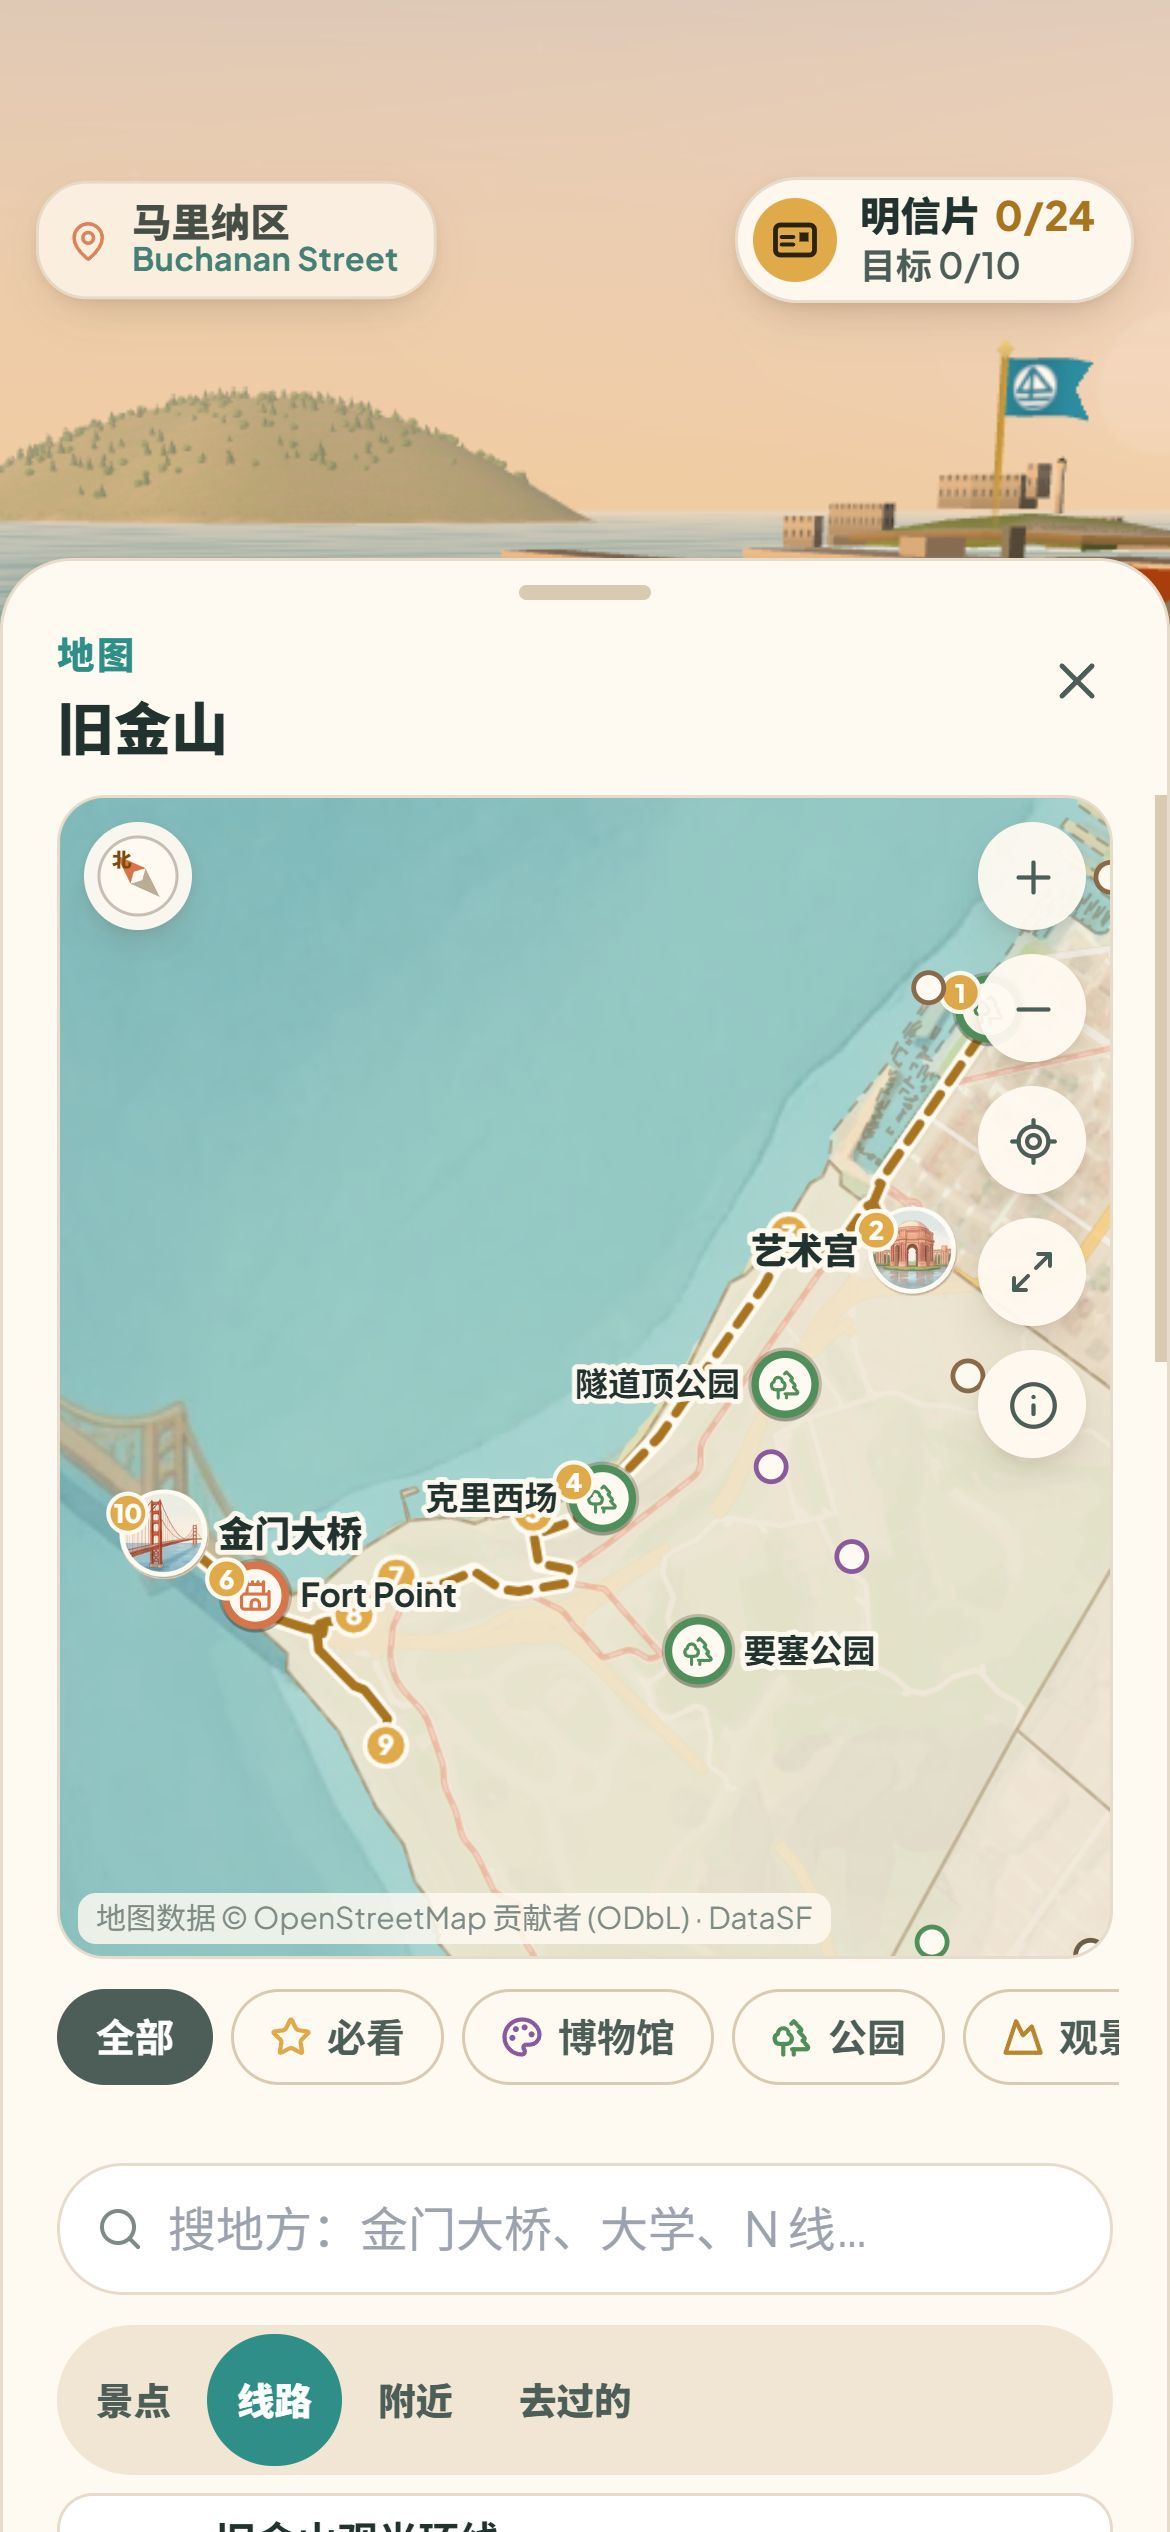
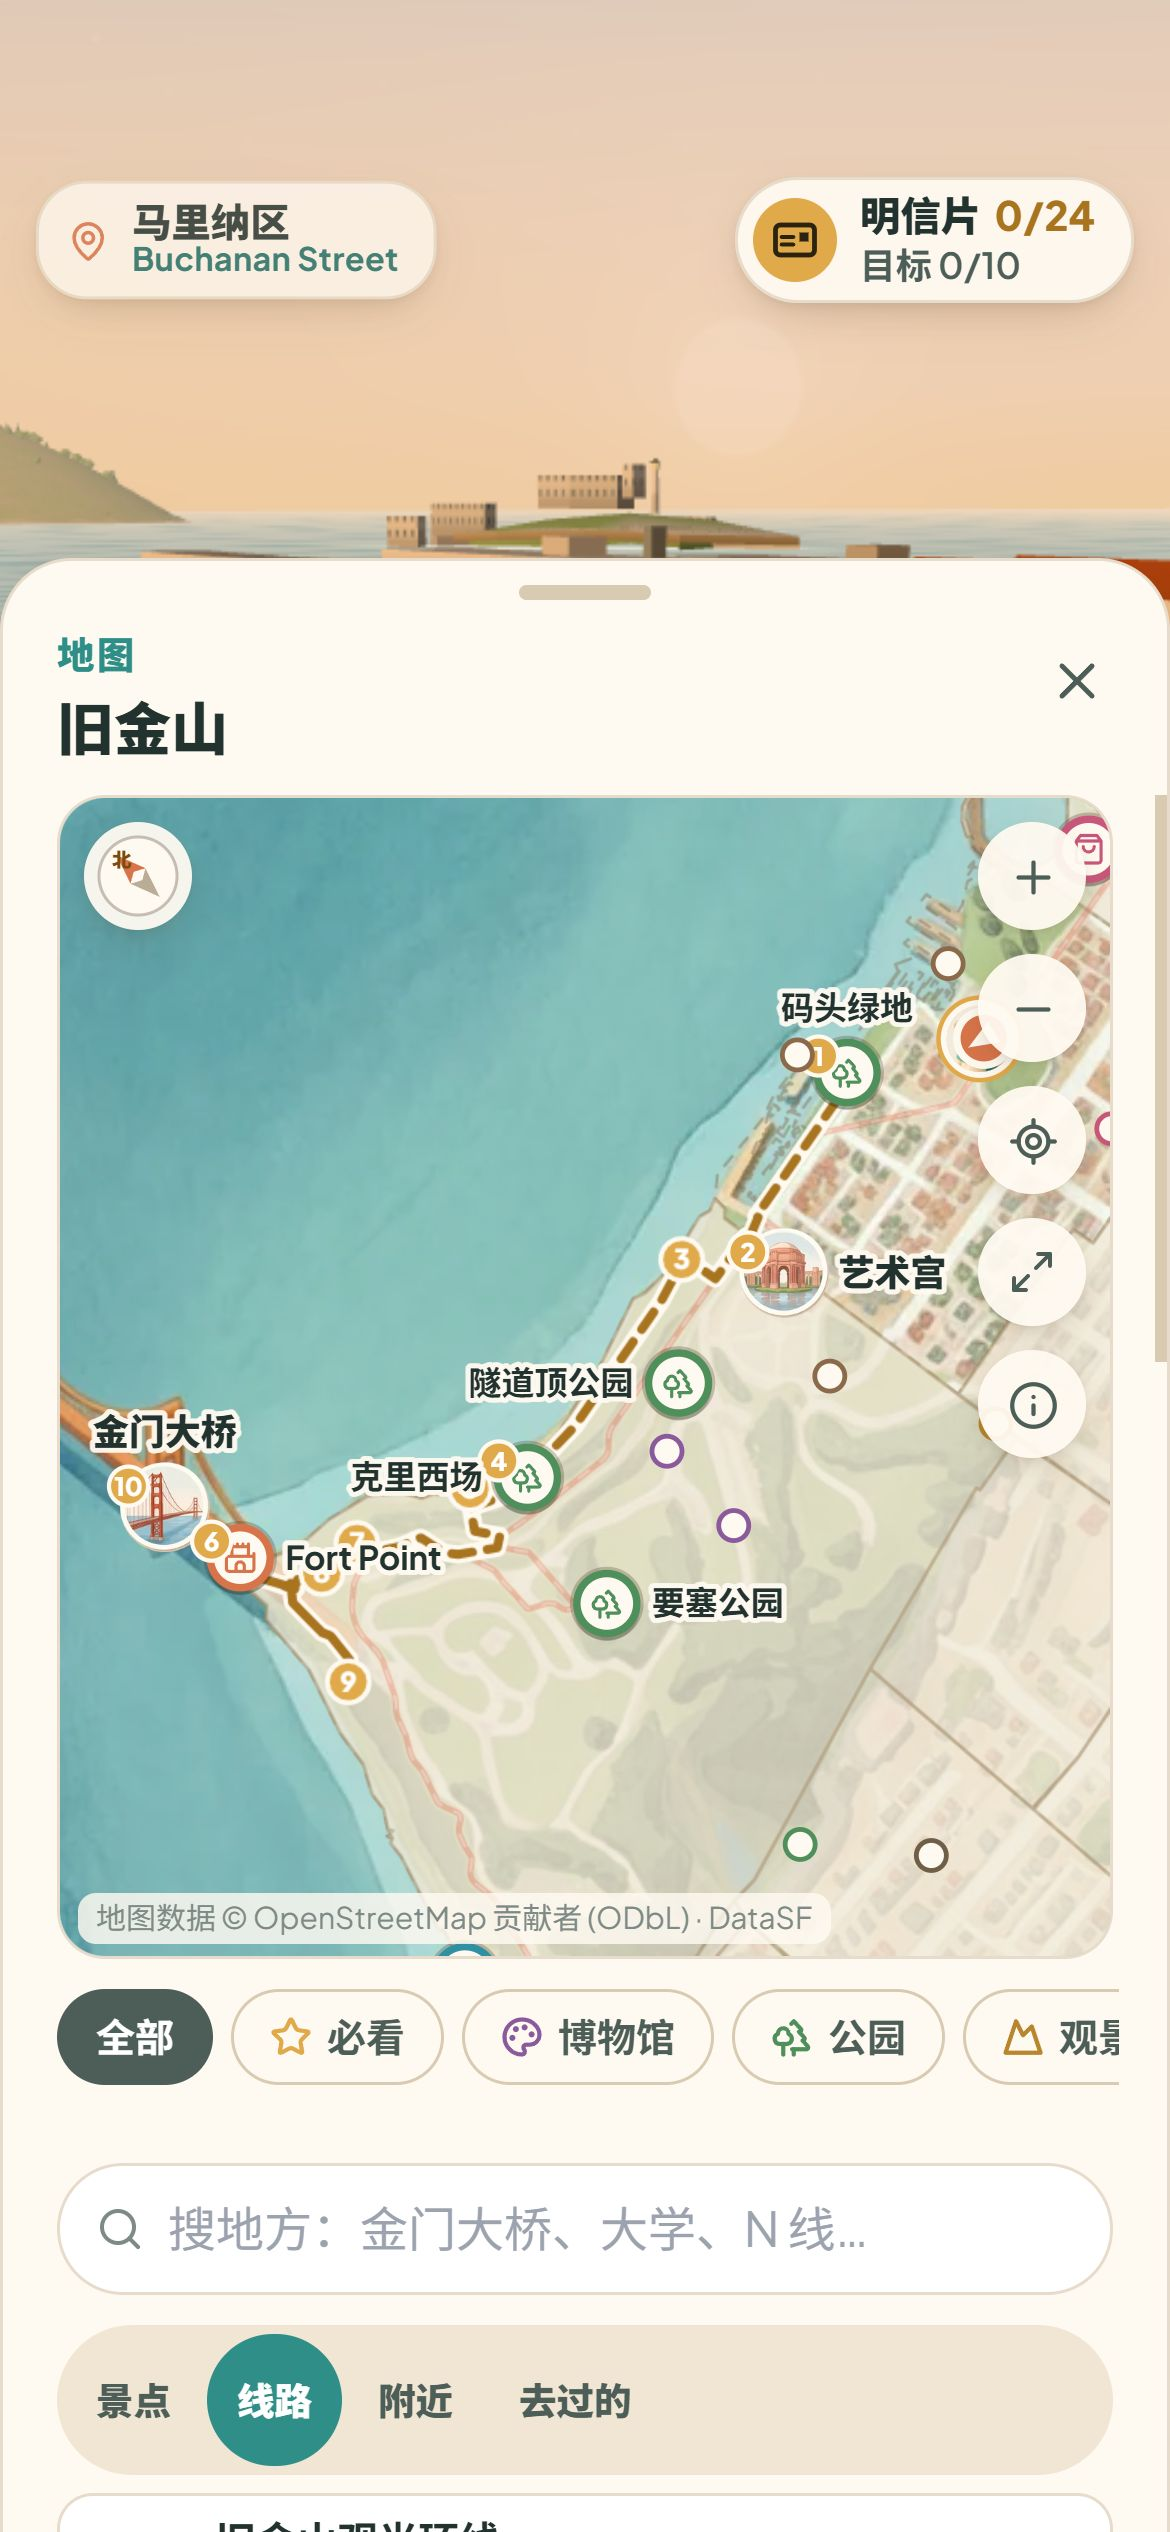
W4-P-I16: framing a line, a walking route, a cluster or a trip keeps the map's tool column clear (fitAbs right reserve: R2's first stop sat under the zoom buttons); the walk shot re-taken

diff --git a/src/opus-bay/ui/CityMap.tsx b/src/opus-bay/ui/CityMap.tsx
@@ -262,7 +262,7 @@ export function CityMapPanel() {
     const hit = hitTest(scene, p.x, p.y, HIT_PX);
     if (hit?.members?.length && scene.s < 1.2) {
       const pts = clusterPoints(scene, ATTRACTION_BY_ID, hit.id, hit.members);
-      setView(v => (v ? fitAbs(v, MAP_FRAME, pts, 56, 0.5, 2.4) : v));
+      setView(v => (v ? fitAbs(v, MAP_FRAME, pts, 56, 0.5, 2.4, toolRight) : v));
       return;
     }
     setSel(hit ? { kind: hit.kind, id: hit.id } : null);
@@ -299,7 +299,7 @@ export function CityMapPanel() {
     if (line && highlight !== id) {
       const pts: Vec2[] = [];
       for (let i = 0; i + 2 < line.path.length; i += 3 * 8) pts.push({ x: line.path[i], z: line.path[i + 2] });
-      setView(v => (v ? fitAbs(v, MAP_FRAME, pts, 28, 0.1, 1.2) : v));
+      setView(v => (v ? fitAbs(v, MAP_FRAME, pts, 28, 0.1, 1.2, toolRight) : v));
     }
   };
   const pickRoute = (id: SfRouteId) => {
@@ -310,7 +310,7 @@ export function CityMapPanel() {
     if (p && highlight !== key) {
       const pts: Vec2[] = [];
       for (let i = 0; i + 1 < p.points.length; i += 2) pts.push({ x: p.points[i], z: p.points[i + 1] });
-      setView(v => (v ? fitAbs(v, MAP_FRAME, pts, 36, 0.2, 2) : v));
+      setView(v => (v ? fitAbs(v, MAP_FRAME, pts, 36, 0.2, 2, toolRight) : v));
     }
   };
   useEffect(() => {
@@ -406,12 +406,12 @@ export function CityMapPanel() {
     if (framedTrip.current || !onTrip || !plan?.route) return;
     framedTrip.current = true;
     const route = plan.route;
-    setView(v => (v ? fitAbs(v, MAP_FRAME, [{ x: runtime.player.x, z: runtime.player.z }, ...route.points], 44, 0.25, 2) : v));
-  }, [onTrip, plan]);
+    setView(v => (v ? fitAbs(v, MAP_FRAME, [{ x: runtime.player.x, z: runtime.player.z }, ...route.points], 44, 0.25, 2, toolRight) : v));
+  }, [onTrip, plan, toolRight]);
   const showRoute = () => {
     const route = plan?.route;
     const pts: Vec2[] = route ? routeAhead(route.points, runtime.player).points : trip ? trip.legs.flatMap(l => [l.from, l.to]) : [];
-    if (pts.length) setView(v => (v ? fitAbs(v, MAP_FRAME, [{ x: runtime.player.x, z: runtime.player.z }, ...pts], 44, 0.2, 2) : v));
+    if (pts.length) setView(v => (v ? fitAbs(v, MAP_FRAME, [{ x: runtime.player.x, z: runtime.player.z }, ...pts], 44, 0.2, 2, toolRight) : v));
   };
   // the trip strip: where lane C's trip goes (its last leg's point name, else the place / attraction)
   const tripName: Bilingual | null = !trip ? null : trip.legs[trip.legs.length - 1]?.to.name ?? (trip.attraction ? ATTRACTION_INDEX.resolve(trip.attraction)?.name : undefined) ?? ix?.get(trip.placeId)?.name ?? null;

diff --git a/src/opus-bay/ui/cityMapModel.ts b/src/opus-bay/ui/cityMapModel.ts
@@ -264,14 +264,17 @@ export function clusterPoints(scene: MapScene, attractions: ReadonlyMap<string, 
 // Framing (absolute scale: s = CSS px per world unit)
 // ---------------------------------------------------------------------------------------------------------------------
 
-/** The view that shows `pts` with `pad` px to spare, its scale kept in [sMin, sMax] (then the usual limits). */
-export function fitAbs(v: MapView, frame: MapFrameBox, pts: readonly Vec2[], pad: number, sMin: number, sMax: number): MapView {
+/**
+ * The view that shows `pts` with `pad` px to spare, its scale kept in [sMin, sMax] (then the usual limits). `right`: px
+ * kept clear on the right besides (the map's tool column: a route's first stop sat under the zoom buttons).
+ */
+export function fitAbs(v: MapView, frame: MapFrameBox, pts: readonly Vec2[], pad: number, sMin: number, sMax: number, right = 0): MapView {
   if (!pts.length) return v;
   let x0 = Infinity, z0 = Infinity, x1 = -Infinity, z1 = -Infinity;
   for (const p of pts) { x0 = Math.min(x0, p.x); x1 = Math.max(x1, p.x); z0 = Math.min(z0, p.z); z1 = Math.max(z1, p.z); }
-  const sx = (v.w - 2 * pad) / Math.max(1, x1 - x0), sz = (v.h - 2 * pad) / Math.max(1, z1 - z0);
+  const sx = (v.w - 2 * pad - right) / Math.max(1, x1 - x0), sz = (v.h - 2 * pad) / Math.max(1, z1 - z0);
   const scale = Math.min(sMax, Math.max(sMin, Math.min(sx, sz)));
-  return clampView({ ...v, cx: (x0 + x1) / 2, cz: (z0 + z1) / 2, scale }, frame);
+  return clampView({ ...v, cx: (x0 + x1) / 2 + right / 2 / scale, cz: (z0 + z1) / 2, scale }, frame);
 }
 
 /** 全城: the SF land box, as large as it fits (phone ≈ 0.185, desktop ≈ 0.231). */

diff --git a/tests/opus-bay-sf-map-int.test.ts b/tests/opus-bay-sf-map-int.test.ts
@@ -352,3 +352,13 @@ test('a walking route\'s stop an attraction badge stands for wears its number on
   const pal = scene(352, 388, v, { tourNext: { id: [...numbers.keys()][0], n: 3 } }).attractions.get([...numbers.keys()][0])!;
   assert.equal(badgePaint(pal.a, pal.size, pal.state).tourDisc?.fill, BADGE_INK.coral);
 });
+
+test('framing a line, a route or a trip keeps the tool column clear (a walk\'s first stop sat under the zoom buttons)', () => {
+  const pts = [{ x: -382, z: 300 }, { x: -760, z: 590 }, { x: -600, z: 420 }];
+  const v = fitAbs({ cx: 0, cz: 0, scale: 1, w: 352, h: 388 }, MAP_FRAME, pts, 36, 0.2, 2, 48);
+  const px = (p: { x: number; z: number }) => (p.x - v.cx) * v.scale + v.w / 2;
+  for (const p of pts) assert.ok(px(p) >= 36 - 1e-6 && px(p) <= 352 - 36 - 48 + 1e-6, `x ${px(p).toFixed(1)}`);
+  // without the reserve the old framing (the default) is unchanged
+  const old = fitAbs({ cx: 0, cz: 0, scale: 1, w: 352, h: 388 }, MAP_FRAME, pts, 36, 0.2, 2);
+  assert.ok(Math.abs(old.cx - (-382 - 760) / 2) < 1e-6);
+});
